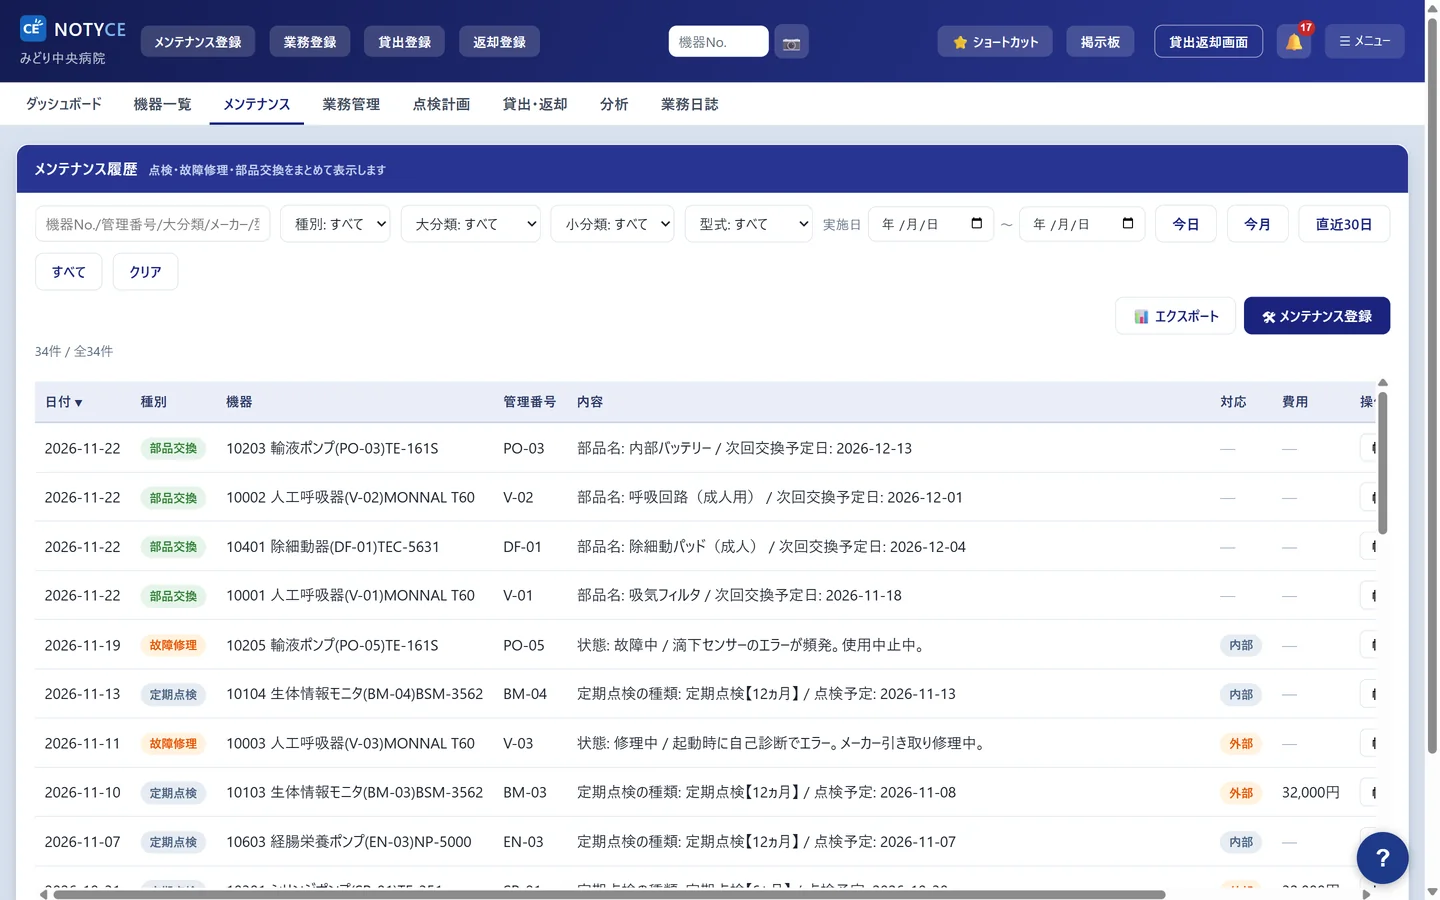
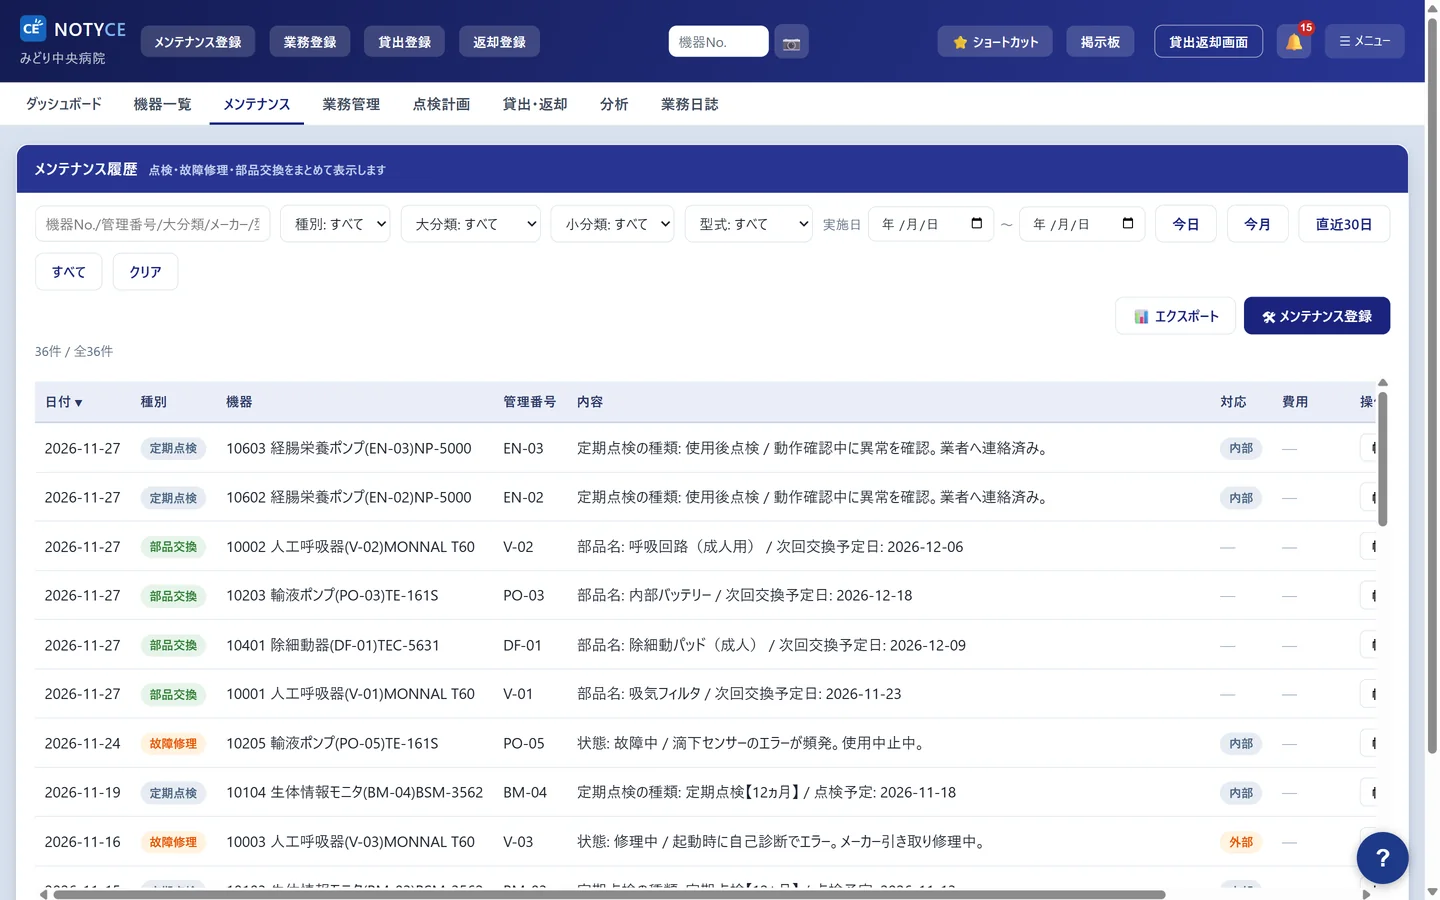
NOTYCE の画面を撮り直し版に差し替え、ダッシュボードを追加
Claude-Session: https://claude.ai/code/session_01NtnWezJ17y1u2aEZSF6Lnp

diff --git a/assets/css/style.css b/assets/css/style.css
@@ -350,7 +350,7 @@ section.soft { background: var(--c-bg-soft); }
 }
 
 /* NOTYCE の実画面（画像は加工せず、枠・角丸・影は CSS で付ける） */
-.feature .shots { grid-column: 1 / -1; display: grid; grid-template-columns: 1fr 200px; gap: 24px; align-items: end; margin-top: 8px; }
+.shots { display: grid; grid-template-columns: 1fr 200px; gap: 24px; align-items: end; margin-top: 8px; }
 .shot { margin: 0; }
 .shot img { width: 100%; height: auto; display: block; border: 1px solid var(--c-line); box-shadow: 0 10px 30px rgba(20, 28, 82, .12); background: #fff; }
 .shot-pc img { border-radius: 12px; }
@@ -362,10 +362,13 @@ section.soft { background: var(--c-bg-soft); }
 .screen-card figcaption strong { display: block; color: var(--c-ny-dark); font-size: 1.1rem; margin-bottom: 4px; }
 .demo-note { margin-top: 24px; }
 @media (max-width: 720px) {
-  .feature .shots { grid-template-columns: 1fr; justify-items: center; }
+  .shots { grid-template-columns: 1fr; justify-items: center; }
   .shot-pc { width: 100%; }
   .shot-sp { width: 62%; }
   .screen-grid { grid-template-columns: 1fr; gap: 40px; }
   .screen-card picture { display: block; width: 72%; margin: 0 auto; }
   .screen-card img { border-radius: 24px; border: 6px solid var(--c-ny-dark); }
 }
+.feature .shots { grid-column: 1 / -1; }
+.overview-shots { margin-top: 40px; }
+.overview-shots figcaption, .shots-caption { font-size: .9rem; color: var(--c-sub); margin-top: 10px; }

diff --git a/services/notyce.html b/services/notyce.html
@@ -92,6 +92,13 @@
       <li><div class="icon-wrap ny"><svg class="icon" aria-hidden="true"><use href="../assets/img/icons.svg#i-users"/></svg></div><div><strong>導入から運用まで伴走</strong><span>初期設定やデータ移行も代行します。</span></div></li>
     </ul>
   </div>
+  <div class="container">
+    <div class="shots overview-shots">
+      <figure class="shot shot-pc"><img src="../assets/img/notyce-screens/01_dashboard_pc.webp" alt="NOTYCEのダッシュボード画面（PC）。管理台数・貸出中・待機中・点検完了率の数字と、今日の業務予定・返却棚・期限超過の点検・点検アラームなどの件数をまとめた「今日のやることリスト」" width="1440" height="900" loading="lazy" decoding="async"></figure>
+      <figure class="shot shot-sp"><img src="../assets/img/notyce-screens/01_dashboard_sp.webp" alt="NOTYCEのダッシュボード画面（スマホ）" width="585" height="1266" loading="lazy" decoding="async"></figure>
+    </div>
+    <p class="shots-caption">ダッシュボード：今日の業務予定・返却棚・今月期限の点検・期限超過の点検・点検で異常が出た機器などが、件数つきで一覧になります。<br>※ 画面はデモ用の架空データで撮影しています。施設名・数値は実在のものではありません。</p>
+  </div>
 </section>
 
 <!-- 主要機能 -->

diff --git a/PROGRESS.md b/PROGRESS.md
@@ -14,9 +14,16 @@
 - 画面の近くに「デモ用の架空データ。施設名・数値は実在しない」注記を2か所
 - 使っていない画面：01 ダッシュボード（やることリストの4項目が「なし」で弱い）、08 業務管理（予定が少ない）
 
+### 追記：撮り直し素材（コミット 9e2da9b）を反映
+- デモデータを入れ直したため全画面の数値が変わった（待機中28→25台、点検完了率72→74%など）。使っている画像はすべて新しい版に差し替え済み。古い版は使わないこと
+- ダッシュボード（PC＋スマホ）を NOTYCE ページの概要の下に追加。やることリストは全項目に件数あり
+- 13 QR読み取り：カメラ映像が擬似カメラの緑のテストパターンのため **未使用**。実機スマホでの撮影待ち
+- 14 写真の記録：保存前でファイル名＋「(未保存)」表示、写真のサムネイルが出ないため **未使用**
+- 09 業務日誌・11 点検進捗レポートは不要（サイトの文章で触れていない）
+
 ### 次にやること
 - 運営者がプレビューを確認 → `main` に統合
-- 撮り直しを元のセッションに依頼中：ダッシュボード（デモデータ追加）、QRコードからの点検入力、写真の記録。届いたら差し替え・追加
+- QR読み取りの実機スクリーンショットが届いたら「気づける」に追加
 
 ## 2026-11-27（クラウドセッション）
 ### 運営者の回答（確定）
